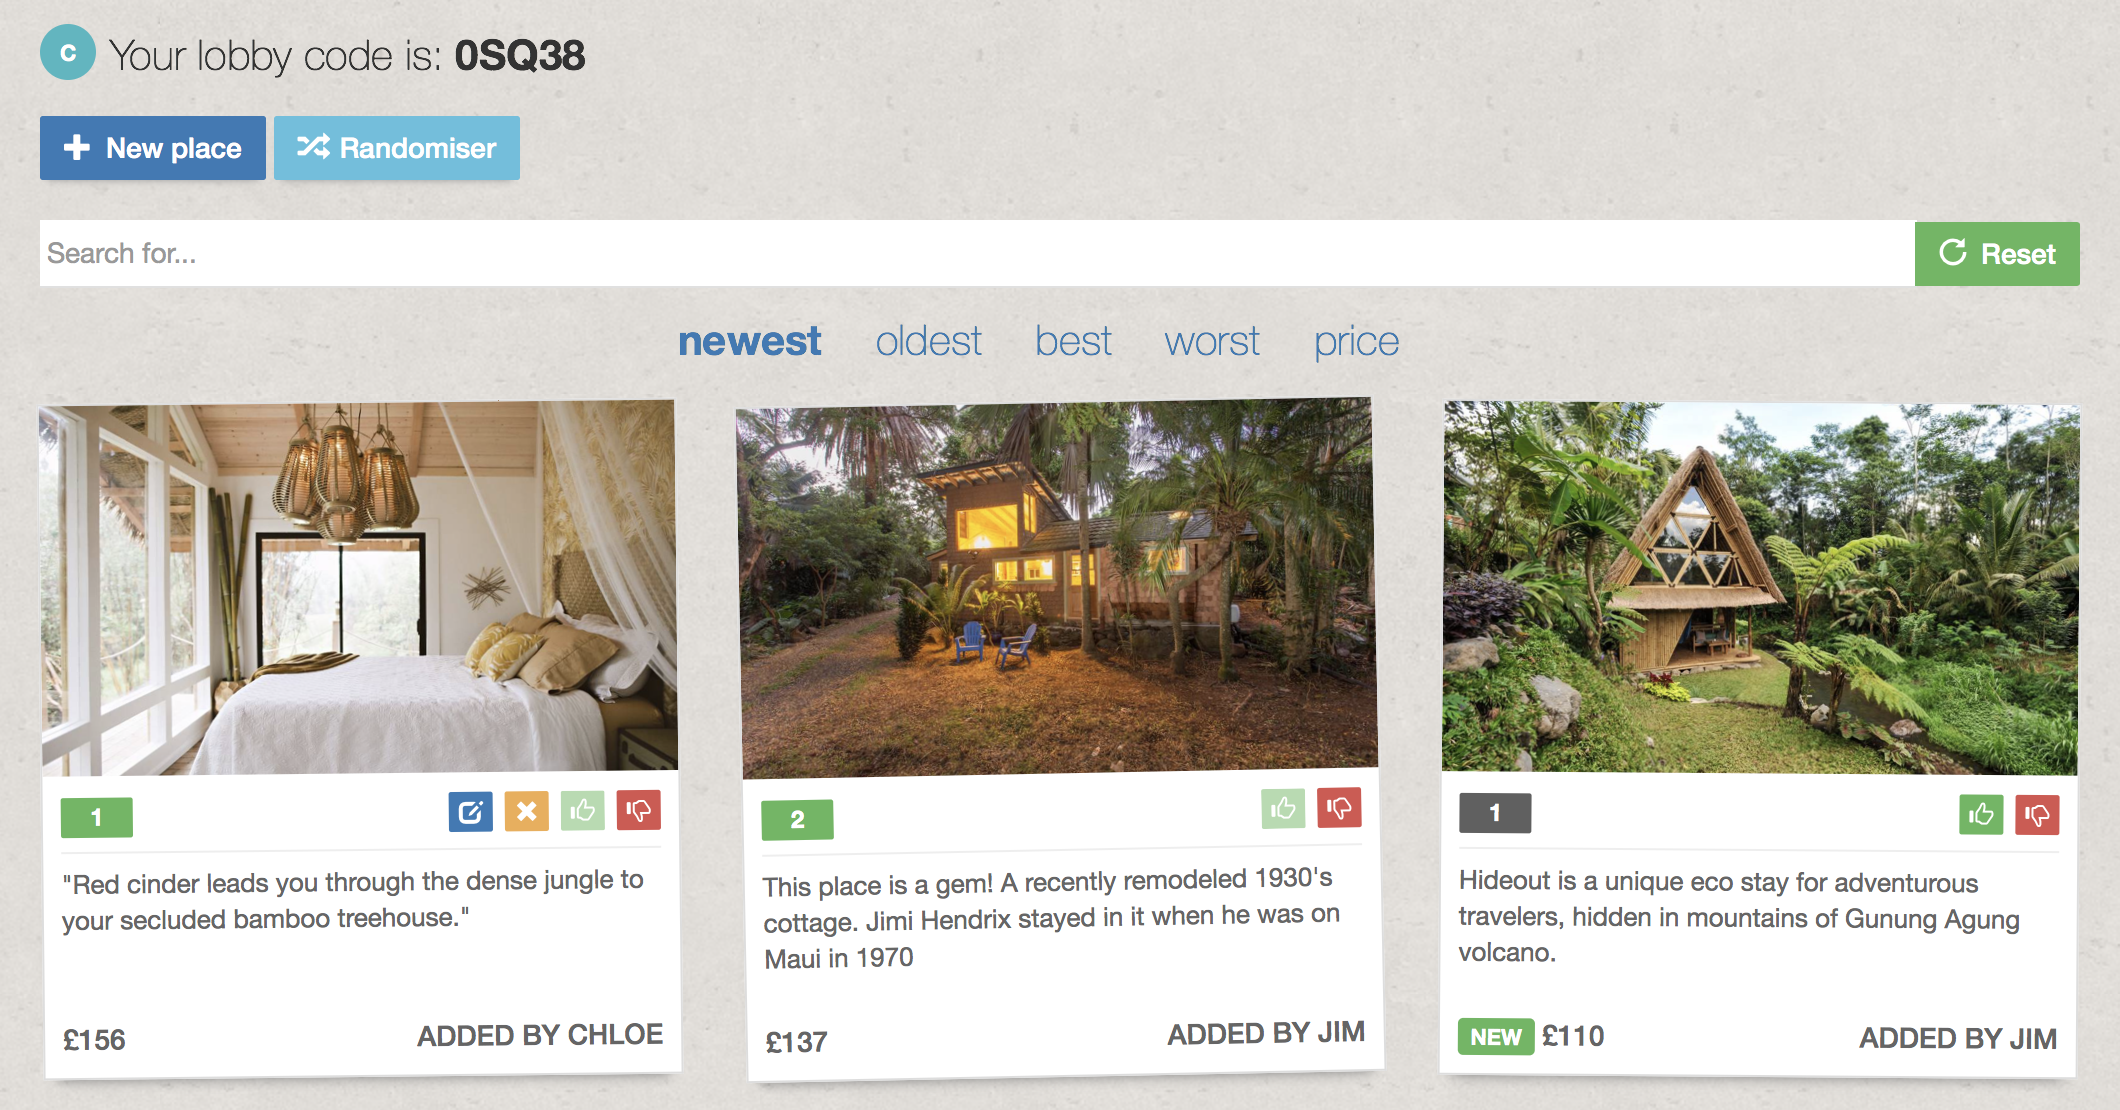
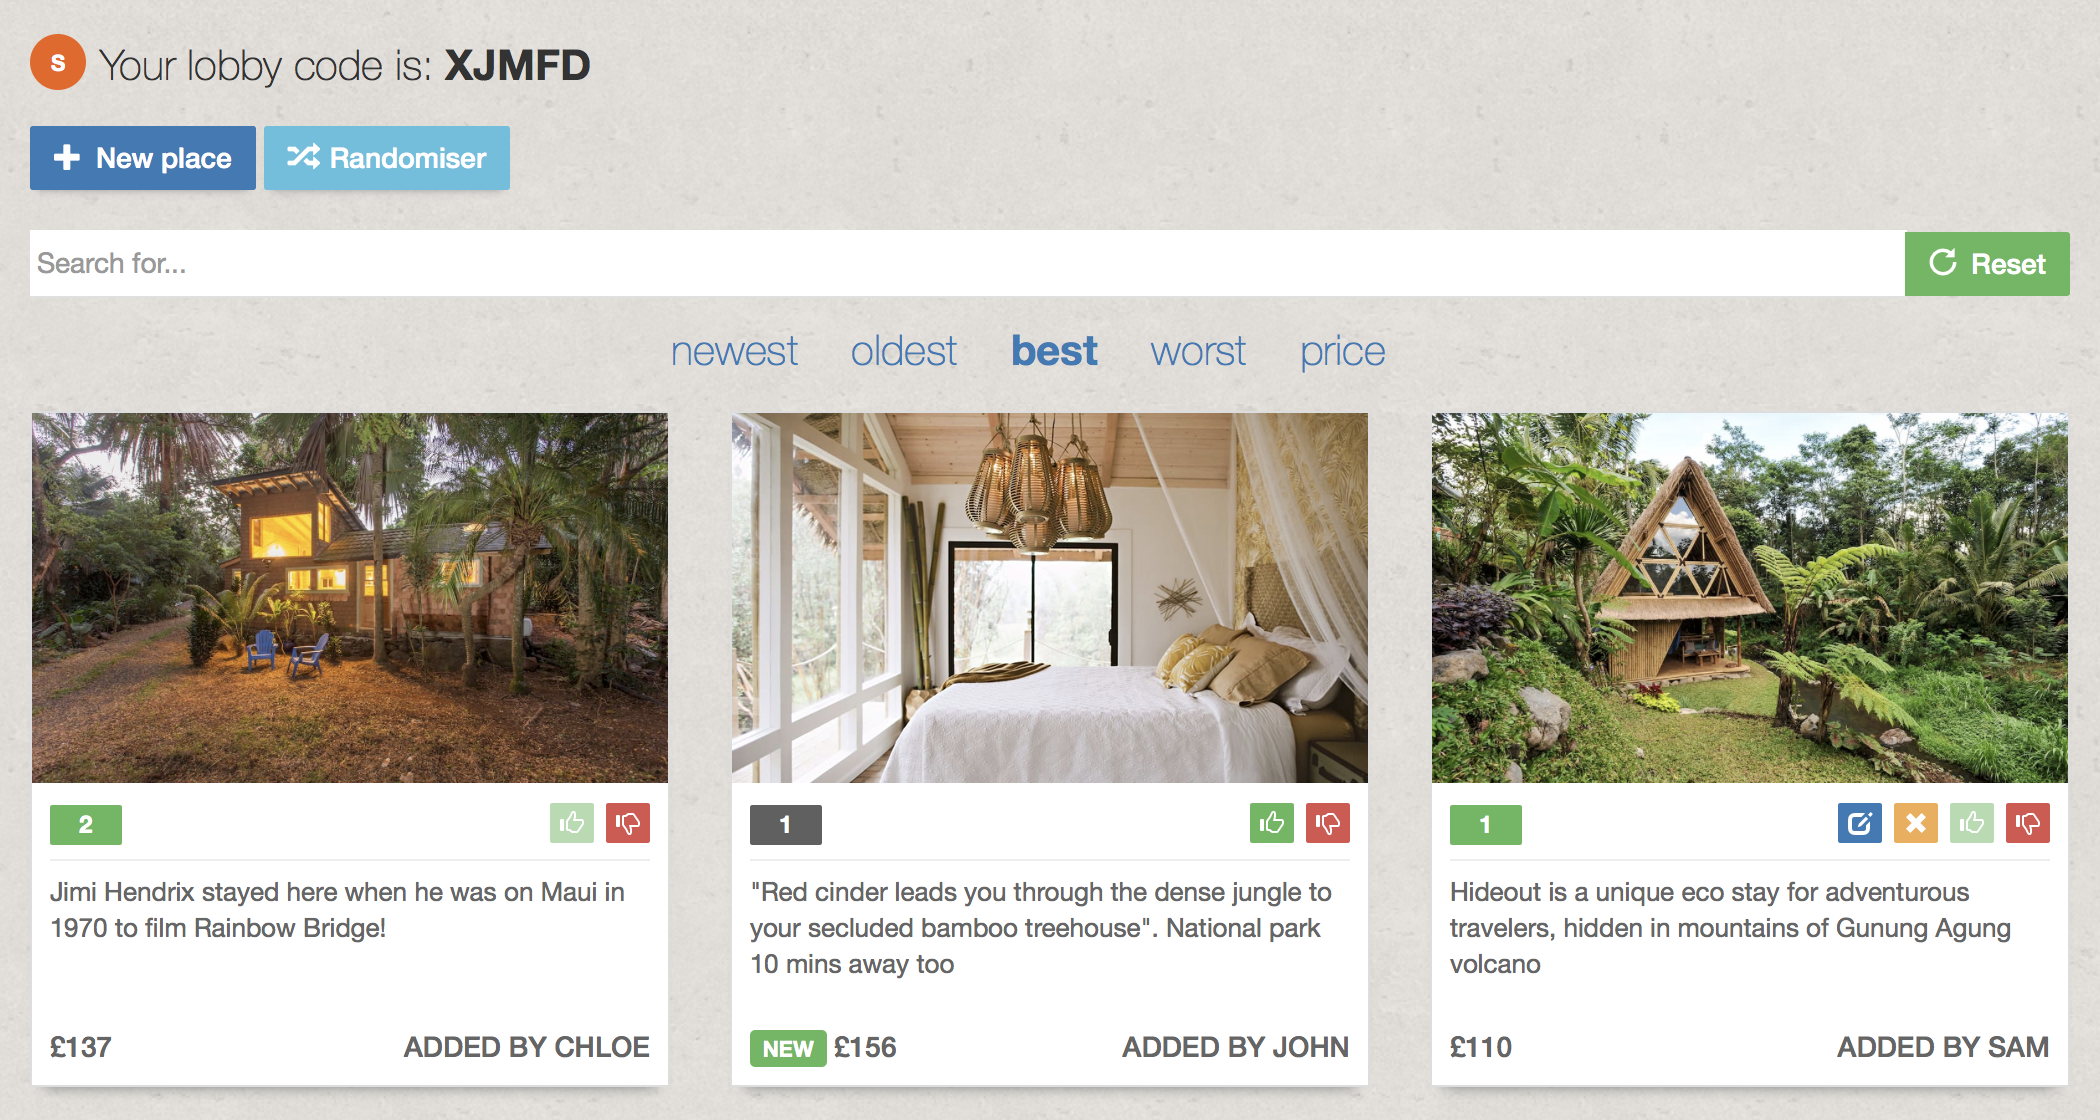
Even better homepage

diff --git a/holiday-app/src/app/lobby/lobby.component.html b/holiday-app/src/app/lobby/lobby.component.html
@@ -132,11 +132,13 @@
       <div *ngFor="let a of places; let i = index">
 
         <div class="col-sm-6 col-md-4" *ngIf="show(i)" [ngClass]="{new: showNewLabel(a)}">
-          <div class="thumbnail expandable" [style.transform]="'rotate(' + a.rot + 'deg)'" [ngClass]="getVoteClass(a)=='btn-danger' ? 'downvoted' : ''">
+          <!-- <div class="thumbnail expandable" [style.transform]="'rotate(' + a.rot + 'deg)'" [ngClass]="getVoteClass(a)=='btn-danger' ? 'downvoted' : ''"> -->
+          <div class="thumbnail expandable" [ngClass]="getVoteClass(a)=='btn-danger' ? 'downvoted' : ''">              
             <!--Thumbnail/link-->
             <div class="image" (mouseover)="checkCard($event, i)" (mouseout)="checkCard($event, i)">
-              <a href="{{a.link}}" target="_blank"><img class="thumbnail-img" [src]="a.image"></a>
-              <h2 *ngIf="showLink==i"><span class="glyphicon glyphicon-new-window" aria-hidden="true"></span>{{api.trimmedLink(a.link)}}</h2>
+              <a href="{{a.link}}" target="_blank"><img class="thumbnail-img" [src]="a.image"></a> 
+              <!-- *ngIf="showLink==i" -->
+              <h2 id="place-link" [style.visibility]="showLink==i ? 'visible' : 'hidden' "><span class="glyphicon glyphicon-new-window" aria-hidden="true"></span>{{api.trimmedLink(a.link)}}</h2>                            
             </div>
 
             <div class="caption">
@@ -163,8 +165,6 @@
 
               <!--Description-->
               <div class="desc">
-                <!-- <strong>{{a.link}}</strong>
-                <br> -->
                 {{a.desc}}
               </div>
 

diff --git a/holiday-app/src/app/lobby/lobby.component.css b/holiday-app/src/app/lobby/lobby.component.css
@@ -23,10 +23,11 @@
 }
 
 .thumbnail {
+    border-radius: 0;
     padding: 0;
     height: 60%;
-    border-radius: 0.0em;
     box-shadow: 0 0.5em 0.5em -0.5em gray;
+    transition: all 0.5s ease;
 }
 
 .downvoted {
@@ -43,7 +44,6 @@
 }
 
 .thumbnail-img {
-    /* padding: 0.5em 0.5em 0em 0.5em; */
     width: 100%;
     max-height: 20vh;
     min-height: 20vh;
@@ -57,15 +57,26 @@
     filter: brightness(50%) saturate(1.5);
 }
 
-h2 { 
+#place-link { 
    position: absolute; 
-   width: 100%;
+   margin-left: 5%;
+   width: 90%;
    text-align: center; 
+
    color: white;
    pointer-events: none;
    text-shadow: 0 0 3px black;
    font-size: 2rem;
-   top: 7vh;
+   
+   text-overflow: ellipsis;
+   white-space: nowrap;
+   overflow: hidden;
+
+   top: 50%;
+   left: 0;
+   bottom: 0;
+   right: 0;
+   transform: translateY(-50%);
 }
 
 .desc {
@@ -144,10 +155,6 @@ button:disabled {
         max-height: 25vh;
         min-height: 25vh;   
     }
-
-    h2 { 
-        top: 9.5vh;
-     }
 
     .desc {
         font-size: 1em;

diff --git a/holiday-app/src/app/home/home.component.css b/holiday-app/src/app/home/home.component.css
@@ -1,25 +1,15 @@
-.slide-img {
-    width: 70%;
-    margin-left: 15%;
-    height: 50vh;
-}
-
 #intro {
     width: 100%;
     height: auto;
-    filter: drop-shadow(0px 0px 8px rgba(0,0,0,0.4));
-    margin-bottom: 0.5em;
-    transform: perspective(1440px) rotateX(2.5deg);
+    filter: drop-shadow(0px 0px 8px rgba(0,0,0,0.2)) saturate(85%);
+}
+
+#intro:hover {
+    filter: drop-shadow(0px 0px 8px rgba(0,0,0,0.3)) saturate(115%);
 }
 
 @media only screen and (max-width: 768px) {
     p {
         text-align: left;
-    }
-
-    .slide-img {
-        width: 90%;
-        margin-left: 5%;
-        height: 25vh;
     }
 }

diff --git a/holiday-app/src/app/home/home.component.html b/holiday-app/src/app/home/home.component.html
@@ -5,8 +5,9 @@
 
     <p>Welcome to the world's best solution for indecisive planners!</p>
     <p>Create or join a lobby for you and your friends to track your accomodation, restaurant, bar or hotel choices in one easy place and vote on your favourites</p>
-
-    <img src="assets/intro.png" id="intro" class="expandable" alt="Just Pick It Lobby">
+    <br>
+    <p>Take a look at an example lobby below:</p>
+    <img src="assets/intro.png" id="intro" class="expandable" alt="Example lobby">
     <br><br>
     
     <a class="btn btn-primary btn-lg full-btn" routerLink="/join" skipLocationChange role="button">Join Lobby</a>

diff --git a/holiday-app/src/styles.css b/holiday-app/src/styles.css
@@ -105,17 +105,17 @@ hr {
 }
 
 .expandable:hover {
-  animation: 0.25s expand ease-out;
+  animation: 0.3s expand ease-out;
   animation-iteration-count: 1;
-  animation-fill-mode: forwards;
+  animation-fill-mode: backwards;
 }
 
 @keyframes expand {
   from {
     transform: translateY(0) scale(1);
   }
-  80% {
-    transform: scale(1.075);
+  50% {
+    transform: scale(1.05);
   }
   to {
     transform: translateY(0) scale(1);
